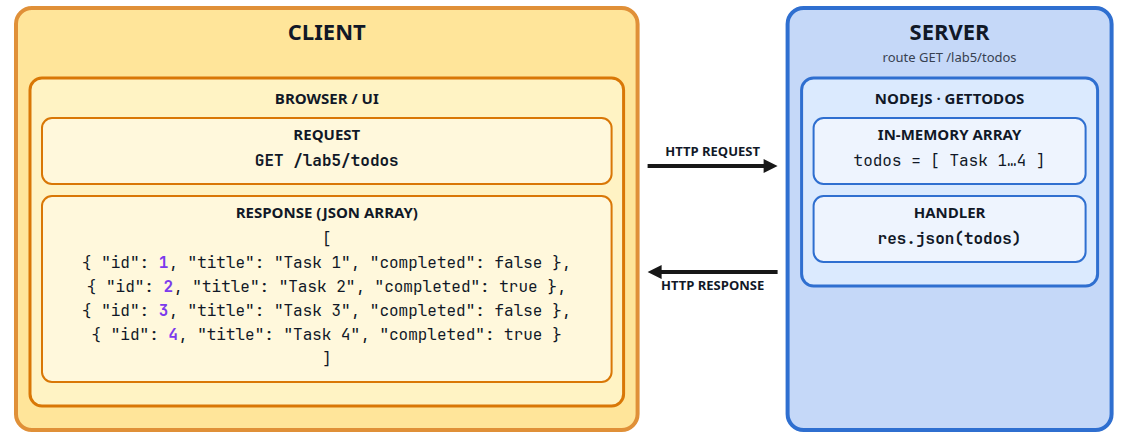
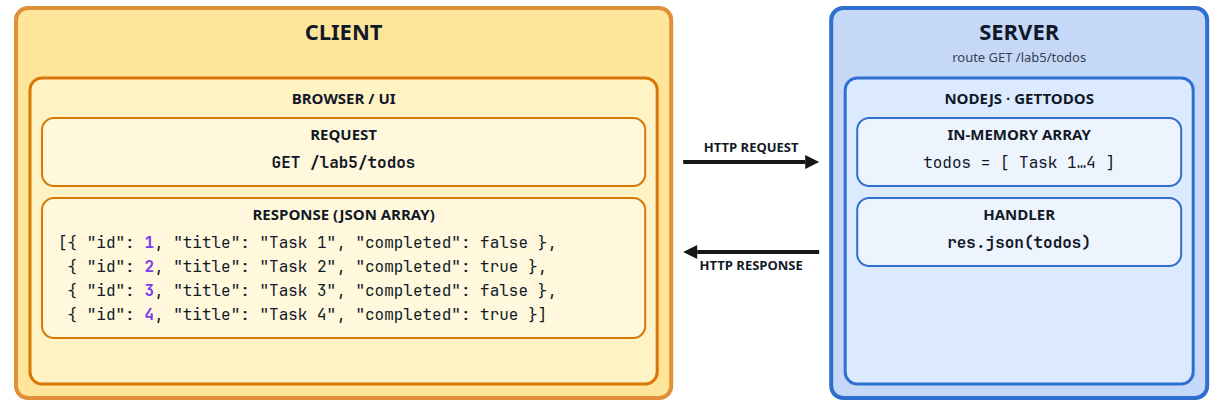
Give side-by-side diagram boxes one height and tuck array brackets.
Every peer box in a row now matches the tallest box. JSON arrays keep
the opening bracket on the first object and the closing bracket on the
last, with those rows left-aligned.

Changed region(s): [[0.0, 0.0, 0.9929, 1.0], [0.2482, 0.0591, 0.3413, 0.1182]]

diff --git a/app/slides/_components/diagrams/StackDiagrams.tsx b/app/slides/_components/diagrams/StackDiagrams.tsx
@@ -70,8 +70,10 @@ function Arrow({
 function Flow({ title, boxes, boxWidth }: { title: string; boxes: Box[]; boxWidth: number }) {
   const gap = 108;
   const heights = boxes.map((box) => boxHeight(box.lines.length));
+  // Side-by-side boxes share the tallest height so the row reads as one band.
+  const boxH = Math.max(...heights);
   const width = 36 + boxes.length * boxWidth + (boxes.length - 1) * gap + 36;
-  const height = 24 + Math.max(...heights) + 20;
+  const height = 24 + boxH + 20;
   const top = 20;
   const requestY = top + HEADER_H + 10;
   const responseY = top + HEADER_H + 32;
@@ -82,7 +84,7 @@ function Flow({ title, boxes, boxWidth }: { title: string; boxes: Box[]; boxWidt
       {boxes.map((box, index) => {
         const tone: Tone = TONES[box.tone];
         const x = 36 + index * (boxWidth + gap);
-        const h = heights[index]!;
+        const h = boxH;
         const stroke = box.emphasis ? 6 : 3;
         return (
           <g key={`${box.name}-${index}`}>
@@ -579,16 +581,13 @@ function SqlVsDocument() {
   "_id": "RS101",
   "name": "Rocket Propulsion",
   "number": "RS4550",
-  "modules": [
-    {
+  "modules": [{
       "_id": "M101",
       "name": "Introduction to Rocket Propulsion"
-    },
-    {
+    }, {
       "_id": "M102",
       "name": "Fuel and Combustion"
-    }
-  ]
+    }]
 }`.split("\n");
   const leftW = 36 + modulesW + 36;
   const rightX = leftW + 28;
@@ -690,7 +689,8 @@ function ArraysPicture() {
   const routeH = boxHeight(ARRAY_ROUTES.length);
   const clientH = boxHeight(ARRAY_METHODS.length);
   const uiH = boxHeight(1);
-  const height = 24 + routeH + 20;
+  const boxH = Math.max(routeH, clientH, uiH);
+  const height = 24 + boxH + 20;
   const top = 20;
   const requestY = top + HEADER_H + 18;
   const responseY = top + HEADER_H + 52;
@@ -698,7 +698,7 @@ function ArraysPicture() {
     {
       x: uiX,
       w: uiW,
-      h: uiH,
+      h: boxH,
       name: "WorkingWithRemoteArrays",
       lines: ["WorkingWithRemoteArrays.tsx"],
       tone: BLUE,
@@ -706,7 +706,7 @@ function ArraysPicture() {
     {
       x: clientX,
       w: clientW,
-      h: clientH,
+      h: boxH,
       name: "client.ts",
       lines: ARRAY_METHODS,
       tone: BLUE,
@@ -714,7 +714,7 @@ function ArraysPicture() {
     {
       x: routeX,
       w: routeW,
-      h: routeH,
+      h: boxH,
       name: "WorkingWithRemoteArrays.ts",
       lines: ARRAY_ROUTES,
       tone: YELLOW,

diff --git a/app/slides/_components/diagrams/SessionDiagrams.tsx b/app/slides/_components/diagrams/SessionDiagrams.tsx
@@ -293,11 +293,11 @@ export function ManySessionsDiagram() {
             <ArrowHead x={520} y={y + 70} dir={1} />
             <line x1={820} y1={y + 70} x2={1004} y2={y + 70} stroke="#171717" strokeWidth={3} />
             <ArrowHead x={1020} y={y + 70} dir={1} />
-            <rect x={1040} y={y + 10} width={300} height={120} rx={10} fill="#fff" stroke={RED.stroke} strokeWidth={3} />
-            <text x={1190} y={y + 58} textAnchor="middle" fontFamily={FONT} fontSize={20} fontWeight={700} fill="#171717">
+            <rect x={1040} y={y} width={300} height={140} rx={10} fill="#fff" stroke={RED.stroke} strokeWidth={3} />
+            <text x={1190} y={y + 64} textAnchor="middle" fontFamily={FONT} fontSize={20} fontWeight={700} fill="#171717">
               {row.cookie.split(" ")[1]}
             </text>
-            <text x={1190} y={y + 94} textAnchor="middle" fontFamily={FONT} fontSize={18} fill="#171717">
+            <text x={1190} y={y + 100} textAnchor="middle" fontFamily={FONT} fontSize={18} fill="#171717">
               {row.session}
             </text>
           </g>

diff --git a/app/slides/_components/diagrams/ReactDataUiDiagram.tsx b/app/slides/_components/diagrams/ReactDataUiDiagram.tsx
@@ -53,7 +53,7 @@ export default function ReactDataUiDiagram() {
           React
         </text>
 
-        <rect x="378" y="86" width="196" height="108" rx="12" fill="#fee2e2" stroke="#171717" strokeWidth="2.5" />
+        <rect x="378" y="28" width="196" height="224" rx="12" fill="#fee2e2" stroke="#171717" strokeWidth="2.5" />
         <text x="476" y="132" textAnchor="middle" fontSize="22" fontWeight="700" fontFamily="ui-sans-serif, system-ui, sans-serif">
           User()
         </text>

diff --git a/README.md b/README.md
@@ -484,7 +484,13 @@ are not nested under `/book`.
 Press **f** (or the Fullscreen button) for presentation mode; **Esc** exits.
 Add `?fullscreen=1` to retry fullscreen after the next click (browsers require
 a gesture). Slide figures are authored SVG/React in
-`app/slides/_components/diagrams/`. Index thumbs are branded SVG cards in
+`app/slides/_components/diagrams/`. Side-by-side boxes in one diagram
+share the height of the tallest box. A JSON array keeps `[` on the
+first object's line and `]` on the last object's line, and those rows
+are left-aligned so the objects line up. Title bands keep square bottoms.
+Arrows stay in the standard request/response style. The figure fills
+the leftover slide height, then scales uniformly so the aspect ratio
+holds (`DiagramFit`). Index thumbs are branded SVG cards in
 `public/lectures/thumbs/` — see `public/lectures/README.md`. Commands and
 source live in `LectureSlide.code` / `codeBlocks`, not as bullet items.
 

diff --git a/public/lectures/README.md b/public/lectures/README.md
@@ -17,6 +17,12 @@ Exception: the Lab 5 path, object, array, and HTTP-server decks may set
 with `imageAlt` that describes the flow. Those files are the slide figures.
 They are not Google Slides crops and not index cards.
 
+Side-by-side boxes in one diagram share the height of the tallest
+box. A JSON array keeps `[` on the first object's line and `]` on the
+last object's line, and those rows are left-aligned so the objects
+line up. Keep square-bottom title bands, the standard arrows, and
+fill-height-then-scale (`DiagramFit` in the slide shell).
+
 `LECTURE_DIAGRAM_IDS` in `lib/lectures/types.ts` is the catalog of
 diagrams and product-UI mocks (browser chrome + key labels, not
 screenshots). Live React demos stay on `embed` (User card, Welcome
